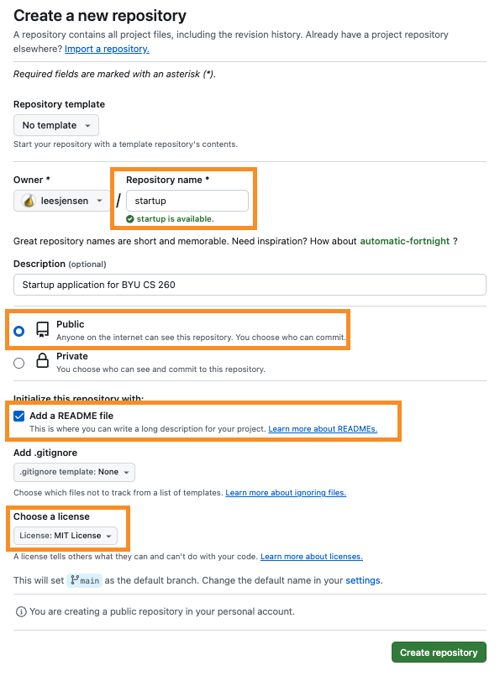
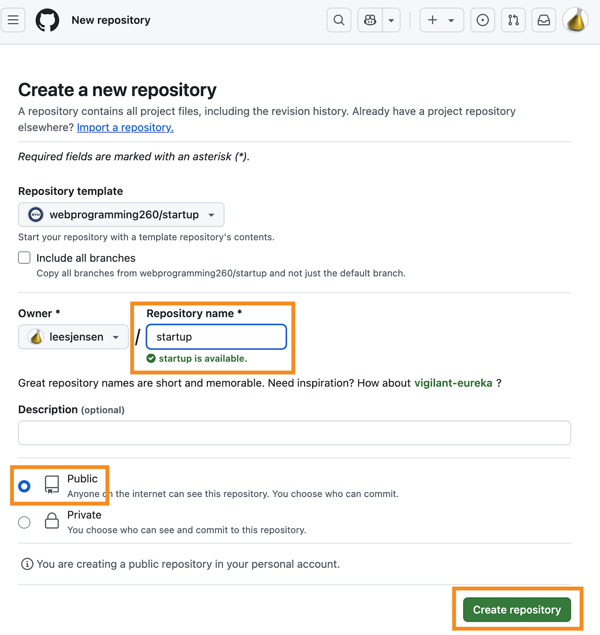
fix(github) to use a template rather than creating your own repository

Changed region(s): [[0.0, 0.0, 0.99, 0.9276], [0.75, 0.8976, 0.99, 1.0]]

diff --git a/profile/schedule/schedule.md b/profile/schedule/schedule.md
@@ -11,7 +11,7 @@
 |      | Thu Jan 23 | CSS       |                                              | [CSS introduction](../css/introduction/introduction.md)</br>[Selectors](../css/selectors/selectors.md)</br>[Declarations](../css/declarations/declarations.md)</br>[Fonts](../css/fonts/fonts.md)</br>[Animation](../css/animation/animation.md)</br>[Debugging CSS](../css/debuggingCss/debuggingCss.md)</br>☑ [CSS practice](../css/practice/practice.md)</br>                                                                                                                                                      | [CSS](https://docs.google.com/presentation/d/13seeFnaLZBi9fM3CRSNkqU0fq1Lpzb8w7ySAYLjDY6g)                                                                                                                                                                                                                                                                                                                                                                                                                                                                                                                                                                      |
 |  4   | Tue Jan 28 |           | 🚀 Startup HTML                              | [Responsive design](../css/responsive/responsive.md)</br>[Grid](../css/grid/grid.md)</br>☑ [Flex](../css/flexbox/flexbox.md)</br>☑ [CSS frameworks](../css/frameworks/frameworks.md)</br>[Simon CSS](../simon/simonCss/simonCss.md)</br>[🚀 Startup CSS](../css/startupCss/startupCss.md)</br>                                                                                                                                                                                                                        | [Responsive design](https://docs.google.com/presentation/d/1ZxU5WXWSUnEcEmI5D3CI21vR5D34bHkZXYQACsWjWYI)                                                                                                                                                                                                                                                                                                                                                                                                                                                                                                                                                        |
 |      | Thu Jan 30 | JS/React  |                                              | [JavaScript introduction](../javascript/introduction/introduction.md)</br>[Adding JavaScript to HTML](../javascript/addingToHtml/addingToHtml.md)</br>[Node.js](../javascript/node/node.md)</br>[Debugging JavaScript](../javascript/debuggingJavascript/debuggingJavascript.md)</br>[Debugging Node.js](../javascript/debuggingNode/debuggingNode.md)</br>                                                                                                                                                           | [JavaScript](https://docs.google.com/presentation/d/1Vd7nbg5eXf4Nb0W29u3q3gm4rMoPRQVTD9X8q8qjBr0)                                                                                                                                                                                                                                                                                                                                                                                                                                                                                                                                                               |
-|  5   | Tue Feb 4  |           | 🚀 Startup CSS                               | [Web frameworks](../webFrameworks/introduction/introduction.md)</br>[React](../webFrameworks/react/introduction/introduction.md)</br>☑ [Components](../webFrameworks/react/components/components.md)</br>☑ [Router](../webFrameworks/react/router/router.md)</br>[Toolchains](../webFrameworks/react/toolChains/toolChains.md)</br>☑ [Vite](../webFrameworks/react/vite/vite.md)</br>                                                                                                                                 | [React](https://docs.google.com/presentation/d/1HdI5LdtAAZa18knaXhZQe7UbV8J-36uqTzdBkx2TRRE)                                                                                                                                                                                                                                                                                                                                                                                                                                                                                                                                                                    |
+|  5   | Tue Feb 4  |           | 🚀 Startup CSS                               | [Web frameworks](../webFrameworks/introduction/introduction.md)</br>[React](../webFrameworks/react/introduction/introduction.md)</br>☑ [Components](../webFrameworks/react/components/components.md)</br>☑ [Router](../webFrameworks/react/router/router.md)</br>[Toolchains](../webFrameworks/react/toolChains/toolChains.md)</br>☑ [Vite](../webFrameworks/react/vite/vite.md)</br>                                                                                                                                 | [React Basics](https://docs.google.com/presentation/d/1HdI5LdtAAZa18knaXhZQe7UbV8J-36uqTzdBkx2TRRE)                                                                                                                                                                                                                                                                                                                                                                                                                                                                                                                                                             |
 |      | Thu Feb 6  |           |                                              | [Simon React P1: Routing](../simon/simonReact/simonReactP1.md)</br>[🚀 Startup React P1](../webFrameworks/startupReact/startupReactP1.md)</br>                                                                                                                                                                                                                                                                                                                                                                        | [React P1: Routing](https://docs.google.com/presentation/d/1KC4LWMnL885S8-_asQLsk2tIqsL0V3JRw8Um_GFnfQI)                                                                                                                                                                                                                                                                                                                                                                                                                                                                                                                                                        |
 |  6   | Tue Feb 11 |           |                                              | [JavaScript Console](../javascript/console/console.md)</br>[Functions](../javascript/functions/functions.md)</br>[Arrow functions](../javascript/arrow/arrow.md)</br>☑ [Arrays](../javascript/array/array.md)</br>[Objects and classes](../javascript/objectClasses/objectClasses.md)</br>[JSON](../javascript/json/json.md)</br>[LocalStorage](../javascript/localStorage/localStorage.md)</br>[Destructuring](../javascript/destructuring/destructuring.md)</br>[Hooks](../webFrameworks/react/hooks/hooks.md)</br> | [4.1 Types, operators, conditionals, loops](https://docs.google.com/presentation/d/1w4-k2CjqUyOMRNpSuumbSakOlyoiI-ddhpU4cZLYUV0) </br>[4.2 Functions, objects, classes](https://docs.google.com/presentation/d/1Whmovzfhce1djN-YT8PqI1k7JvvfnSveMcz7LNTodVQ)<br/>[4.3 Regex, rest/spread, destructure, exception](https://docs.google.com/presentation/d/1c2_7wC3Bfyec9-3L8SKXxJ415c5W0siUfeKeuVaRErw) </br> [4.4 Scope, modules, DOM, Local Storage](https://docs.google.com/presentation/d/1SWq0kLCWW3mBKnCeL5cdhNyUobOoji9apZ9QXPCMtn4) </br>[4.6 Debugging JavaScript](https://docs.google.com/presentation/d/1ptSWxXFXzhJ-KUqvmzjir1ZtWXTMBH-pS2H9aXGwdLs) |
 |      | Thu Feb 13 |           | 🚀 Startup React P1                          | ☑ [Reactivity](../webFrameworks/react/reactivity/reactivity.md)</br>[Simon React P2: Reactivity](../simon/simonReact/simonReactP2.md)</br>[🚀 Startup React P2](../webFrameworks/startupReact/startupReactP2.md)</br>                                                                                                                                                                                                                                                                                                 | [6.3 Reactivity, hooks, tic-tac-toe](https://docs.google.com/presentation/d/1WjUi0otU3Ryoo7b4LK3BxkG89gMaJJd873lWbBuRvkw) </br> [6.4 Simon React](https://docs.google.com/presentation/d/1gNmzsbvm5DNPVfTdbGRQz_IFcvz4OkBMF_0Jfs-vBxk)                                                                                                                                                                                                                                                                                                                                                                                                                          |

diff --git a/profile/essentials/gitHub/gitHub.md b/profile/essentials/gitHub/gitHub.md
@@ -108,70 +108,11 @@ Fast-forward
 
 After running the pull command, your development clone and the GitHub clone are now the same.
 
-## Handling merge conflicts
-
-By pushing and pulling often, everyone keeps an up to date copy of the repository. This is important so that you don't run into merging problems caused by two peers modifying the exact same code. Merging only becomes something you have to deal with when two people modify the exact same line of code. However, when you have two peers working together you are always going to have a merge conflict at some point in time and so let's discuss how to handle this.
-
-We can simulate a merge conflict by editing a line in a file and committing the file in your development environment, and before pushing that change, modifying the same line using GitHub. Now, run `fetch` and `status` again in your console.
-
-```sh
-➜  git fetch
-➜  git status
-Your branch and 'origin/main' have diverged,
-and have 1 and 1 different commits each, respectively.
-  (use "git pull" to merge the remote branch into yours)
-```
-
-This shows that the cloned repositories have diverged from each other. Normally this is fine and we can just push and pull the different commits, but if we do that this time, we will get an error because the exact same line was changed in the two different commits. Git doesn't know which change to keep.
-
-```sh
-➜  git pull
-
-Auto-merging test.md
-CONFLICT (content): Merge conflict in test.md
-Automatic merge failed; fix conflicts and then commit the result.
-```
-
-We now need to resolve the merge conflict that it says has happened with our `test.md` file. If you are using VS Code with the GitLens extension installed it will visually walk you through this process. However, so you can understand what is going on, we will do this using the console. The first step is to open up `test.md` in an editor. You will see that git has injected lines that highlight where the conflict is. Both your local change and the change made on GitHub are included.
-
-```diff
-An example startup application
-
-Change from my development environment!
-
-Change from GitHub
-
-<<<<< HEAD
-Conflict change made in development environment
-=======
-Conflict change made in GitHub
->>>>> b9f4c53c91eff509993d7291e60148f903827de0
-```
-
-We resolve the conflict by modifying the file to remove the textual conflict delimiters and modifying the file to keep the changes we want. When we are done editing, our file contains what we want from both commits.
-
-```md
-# startup-example
-
-An example startup application
-
-Change from my development environment and from GitHub
-```
-
-Now that the conflict is resolved we commit our resolution and push up the result.
-
-```sh
-➜  git commit -am "merge(notes) combined both edits"
-➜  git push
-```
-
-If you go look at the file again on GitHub you will see the additional commit in the history and the result of our merge in the file content.
-
-## README.md
+## GitHub readme.md
 
 Keeping notes of what you have learned and things that you want to remember is an essential step for accelerating your web programming skills. GitHub supports the inclusion of a file with the special name `README.md` in the root of your repository. The `README.md` file is displayed in GitHub when you view your repository. This file uses `Markdown` syntax. If you have not used Markdown before, then take some time to [learn how to use it](https://docs.github.com/en/get-started/writing-on-github/getting-started-with-writing-and-formatting-on-github/basic-writing-and-formatting-syntax). For this course you will use your startup application's `README.md` file to describe the modifications and alterations that you make to your startup.
 
-You will also create another Markdown file named `notes.md` to track what you have learned in the course. You can use anything that you put in your `notes.md` file when taking the midterm or final.
+In this course you will use the `readme.md` to record your progress on the startup application deliverables. You will also use another Markdown file named `notes.md` to track what you have learned in the course. You can use anything that you put in your `notes.md` file when taking the midterm or final.
 
 ## Forks
 
@@ -194,7 +135,7 @@ GitHub allows you to create a fork of any repository on GitHub. You just push th
 
 In this class, if you notice something in the instruction that needs to be enhanced, feel free to fork the repo, and make a pull request. This will give you experience with this practice and improve the instruction for others at the same time. Plus your name will be included as a contributor. How cool is that!
 
-## ☑ Assignment
+## Creating a history of your work
 
 The majority of your course work will revolve around your Startup Application GitHub repository. In this assignment you will create your repository. For each of your Startup deliverables you will add to, and enhance, the content you have created in a GitHub repository. The commit history that you establish through the course serves the following valuable purposes:
 
@@ -219,12 +160,19 @@ For all of the above reasons, it is required that you use GitHub for your startu
 
 If you do not have the required number of commits, or if they are all clustered in a single burst of activity, then you will need to justify the discrepancy before the deliverable will be accepted.
 
+## ☑ Assignment
+
 Do the following steps to set up your `Startup application repository` in GitHub and clone it to your development environment.
 
 ### Creating Your Startup GitHub Repository
 
-1. Open your web browser to [GitHub](https://github.com)
-1. Create a GitHub repository for your startup project
+1. Open your web browser to the course [template repository](https://github.com/webprogramming260/startup)
+1. Use the template to create a GitHub repository for your startup project
+
+   1. Click on the `Use this template` button.
+   1. Choose the `Create a new repository` option.
+
+      ![alt text](useTemplate.png)
 
    1. Name it `startup`.
    1. Mark the repository as `public` so that it can be reviewed by the TAs and instructors.
@@ -233,7 +181,7 @@ Do the following steps to set up your `Startup application repository` in GitHub
       ![create repo](create-repo.png)
 
 1. Open a command line console window.
-1. Clone the repository to your development environment. Make sure you put the clone of the repository in a directory that you use for this class's coursework. These commands will look something like the following.
+1. Clone your newly created repository to your development environment. Make sure you put the clone of the repository in a directory that you use for this class's coursework. These commands will look something like the following.
 
    ```sh
    cd ~/byu/cs260
@@ -241,21 +189,18 @@ Do the following steps to set up your `Startup application repository` in GitHub
    cd startup
    ```
 
-### Practice using Git and resolving conflicts
+### Practice using Git
 
-1. Open up the repository directory in VS Code and create a file named `conflictTest.md`. Add some text to the file.
-1. Use the Git functionality of VS Code to add `conflictTest.md` to Git, commit your changes, and push them to GitHub.
-1. In GitHub modify your `conflictTest.md` file and commit the changes.
+1. Open up the repository directory in VS Code and modify the `readme.md` and `notes.md` file.create a file. Commit your changes, and push them to GitHub.
+1. Using the GitHub web console modify your `readme.md` file and commit the changes.
 1. In VS Code pull down and review the changes.
-1. Make another change to the `conflictTest.md` file on GitHub and commit the change.
-1. Before you pull the changes to your development environment, change the same line in the `conflictTest.md` file and commit the change.
-1. Attempt to pull the GitHub changes to your development environment. Note and resolve the merge conflict. Commit the merged changes. Push the merge commit.
-1. On GitHub observe the resolved merge.
 
-### Create your notes.md
+### Your notes.md
+
+Your notes file is meant as a place to remember all the things you have learned from this course. You should modify this file frequently.
 
 1. Read the GitHub documentation about the basics of [writing markdown](https://docs.github.com/en/get-started/writing-on-github/getting-started-with-writing-and-formatting-on-github/basic-writing-and-formatting-syntax).
-1. Create a file in your repository called `notes.md`. You can use the contents of this file while taking the midterm and final exam. As you modify your `notes.md` file throughout the class. Make sure that you keep it organized and clean. You can add multiple `.md` files and reference them from your `notes.md` file in order make it easier to organize your content.
-1. Make your first notes in your `notes.md` file about what you learned from this assignment. Consider adding a link in your `README.md` file to your `notes.md` file. Commit and push your notes to GitHub.
+1. Access the file in your repository called `notes.md`. You can use the contents of this file on any exam. As you modify your `notes.md` file throughout the class. Make sure that you keep it organized and clean. You can add multiple `.md` files and reference them from your `notes.md` file in order make it easier to organize your content.
+1. Make your first notes in your `notes.md` file about what you learned from this assignment. Commit and push your notes to GitHub.
 
 _If your section of this course requires that you submit assignments for grading_: Submit in the Canvas assignment the URL of your GitHub startup repository.

diff --git a/profile/essentials/startupSpec/startupSpec.md b/profile/essentials/startupSpec/startupSpec.md
@@ -67,7 +67,7 @@ Take some time to properly learn how to use Markdown in your `README.md` and `no
 
 ## 🚀 Deliverable
 
-Update the `README.md` file for your startup GitHub repository that you created in the [earlier instruction](essentials/gitHub/gitHub.md) to include your startup specification. This should include an elevator pitch, key features, a description of how you will use each technology, and design images.
+Update the `README.md` file for your startup GitHub repository that you created in the [earlier instruction](../gitHub/gitHub.md) to include your startup specification. This should include an elevator pitch, key features, a description of how you will use each technology, and design images.
 
 You only need to provide the specification for this deliverable. Do not include information about future deliverables.
 
